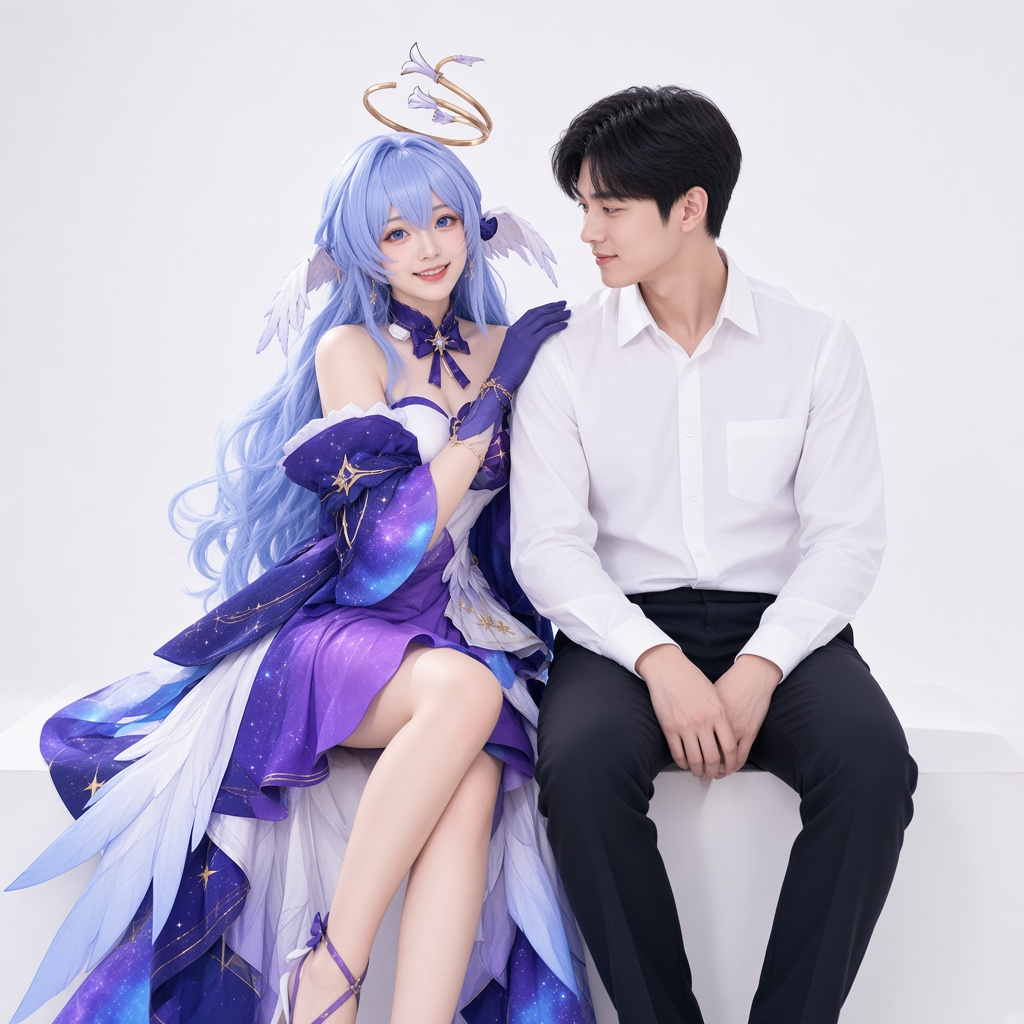
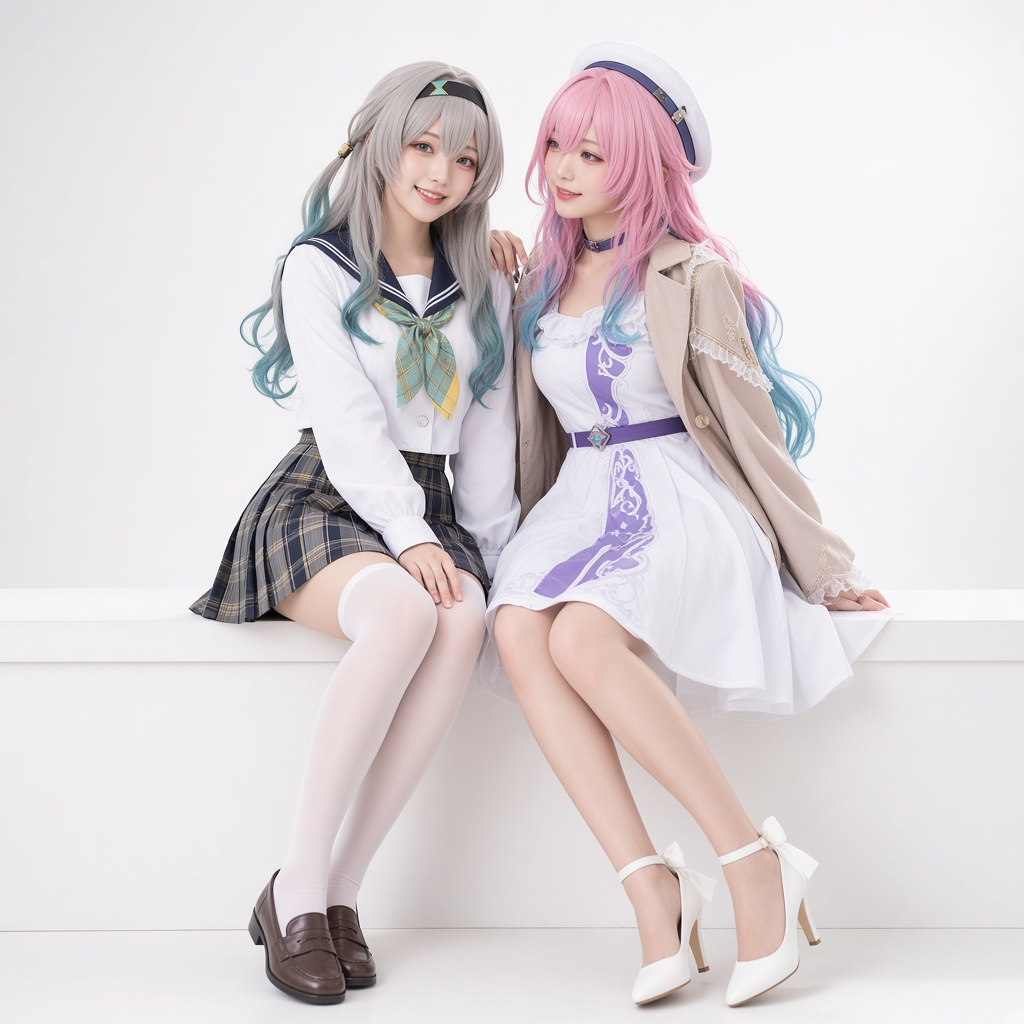
动作预设：多人例图改流萤与三月七真人 cos
并肩坐/相倚/并肩走/三人看向一点换角；桌面归档至「动作预设例图」。

diff --git a/交接日志.md b/交接日志.md
@@ -403,6 +403,10 @@
 - T18–T21、T25 → 完成；T17、T22、T23、T24 → 返工，修正项合成 T26（F1–F11）。
 - 详见 `docs/review-0.4.0-claude.md`。复核用的 bundle 已移到 `_to_delete/`。
 
+## 2026-10-30 01:35 · Grok · 多人例图换流萤/三月七 + 桌面归档
+- 桌面副本：`~/Desktop/动作预设例图/`（小B 单人 / 多人-流萤与三月七 / models）
+- 多人 4 张重出为真人 cos：流萤校服 + 三月七贝雷白裙；产品缩略图已替换
+
 ## 2026-10-30 01:05 · Grok · 小B 预设例图全套 30
 - 按服装图解补齐小B 知更鸟 cos 全部起步姿势例图
 - `web/img/pose-presets/{id}.jpg` + `PRESET_THUMBS` 全覆盖；小A 旧三张进 `archive-xiao-a/`
